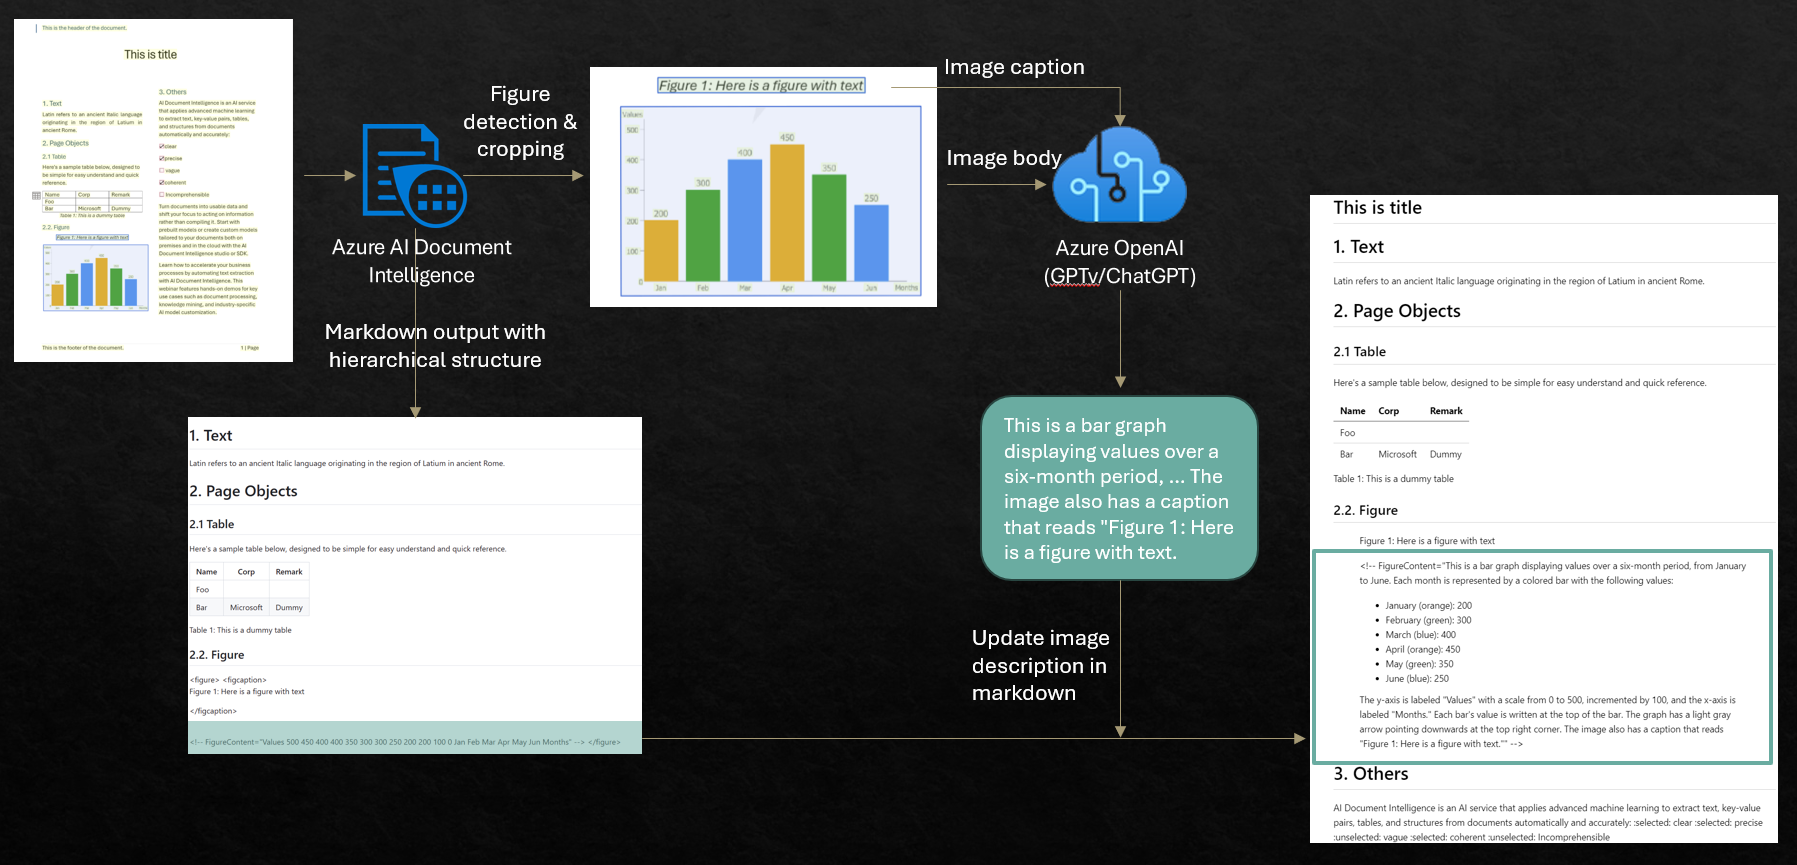
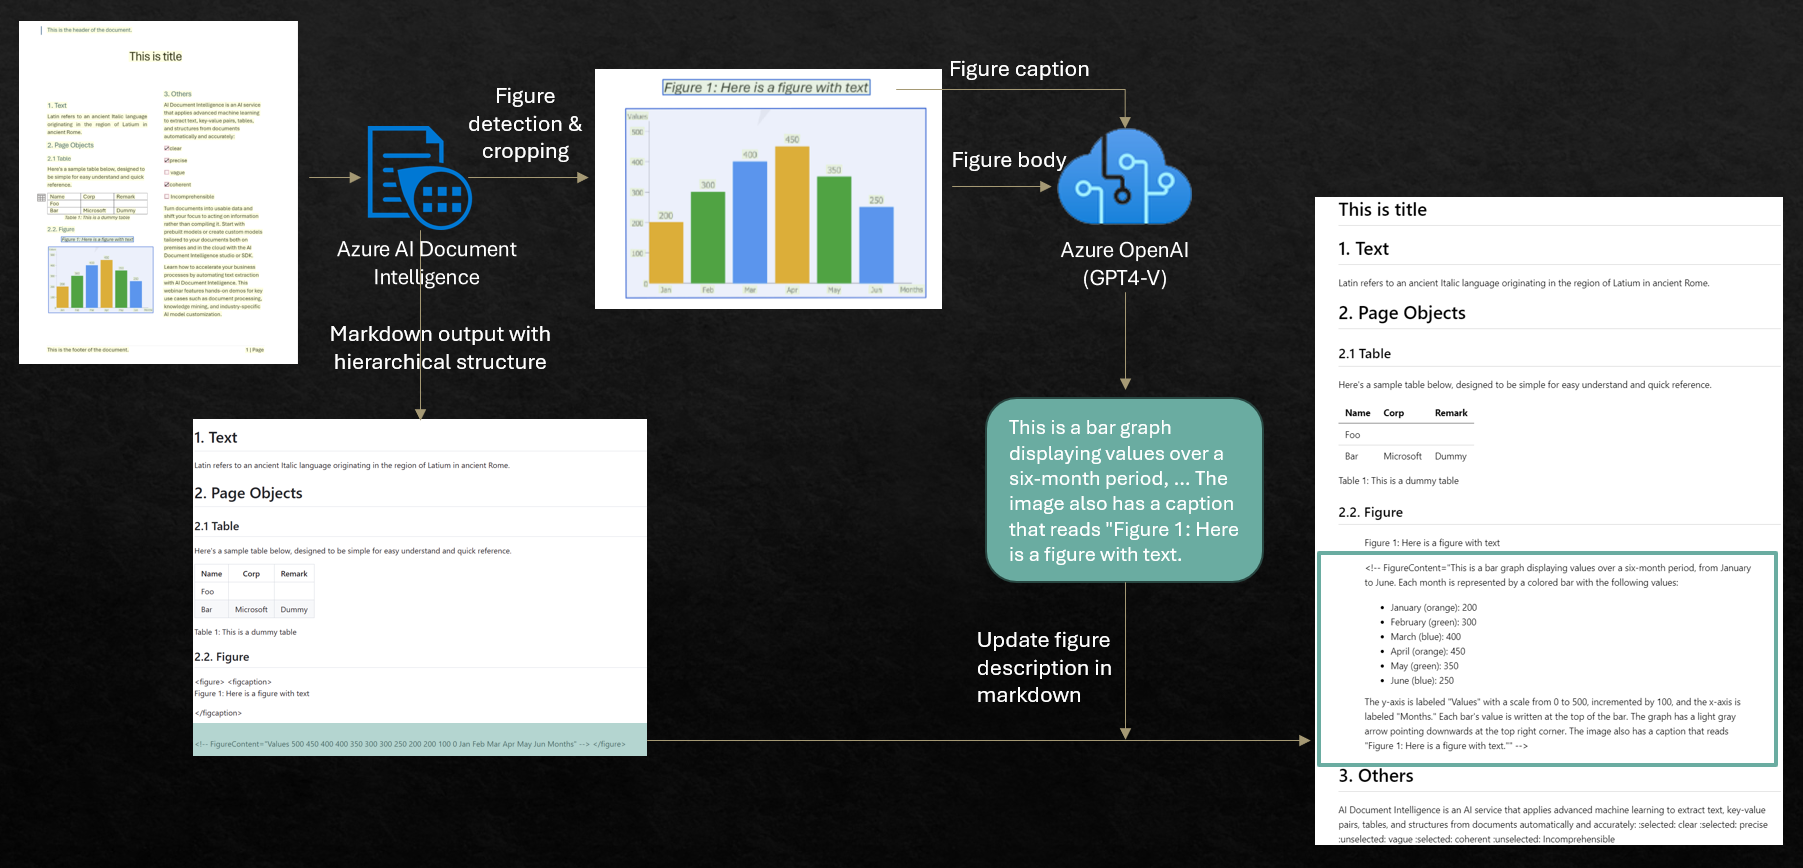
update figure understanding notebook and add readme entry

diff --git a/SampleCode/README.md b/SampleCode/README.md
@@ -23,6 +23,7 @@ The Layout model provides various building blocks like tables, paragraphs, secti
 | File Name | Description |
 | --- | --- |
 | [sample_rag_langchain.ipynb](Python/sample_rag_langchain.ipynb) | Sample RAG notebook using Azure AI Document Intelligence as document loader, MarkdownHeaderSplitter and Azure AI Search as retriever in Langchain |
+| [sample_figure_understanding.ipynb](Python/sample_figure_understanding.ipynb) | Sample notebook showcasing how to crop the figures and send figure content (with its caption) to Azure Open AI GPT-4V model to understand the semantics. The figure description will be used to update the markdown output, which can be further used for [semantic chunking](https://aka.ms/doc-gen-ai). |
 
 
 # Pre/post processing samples
